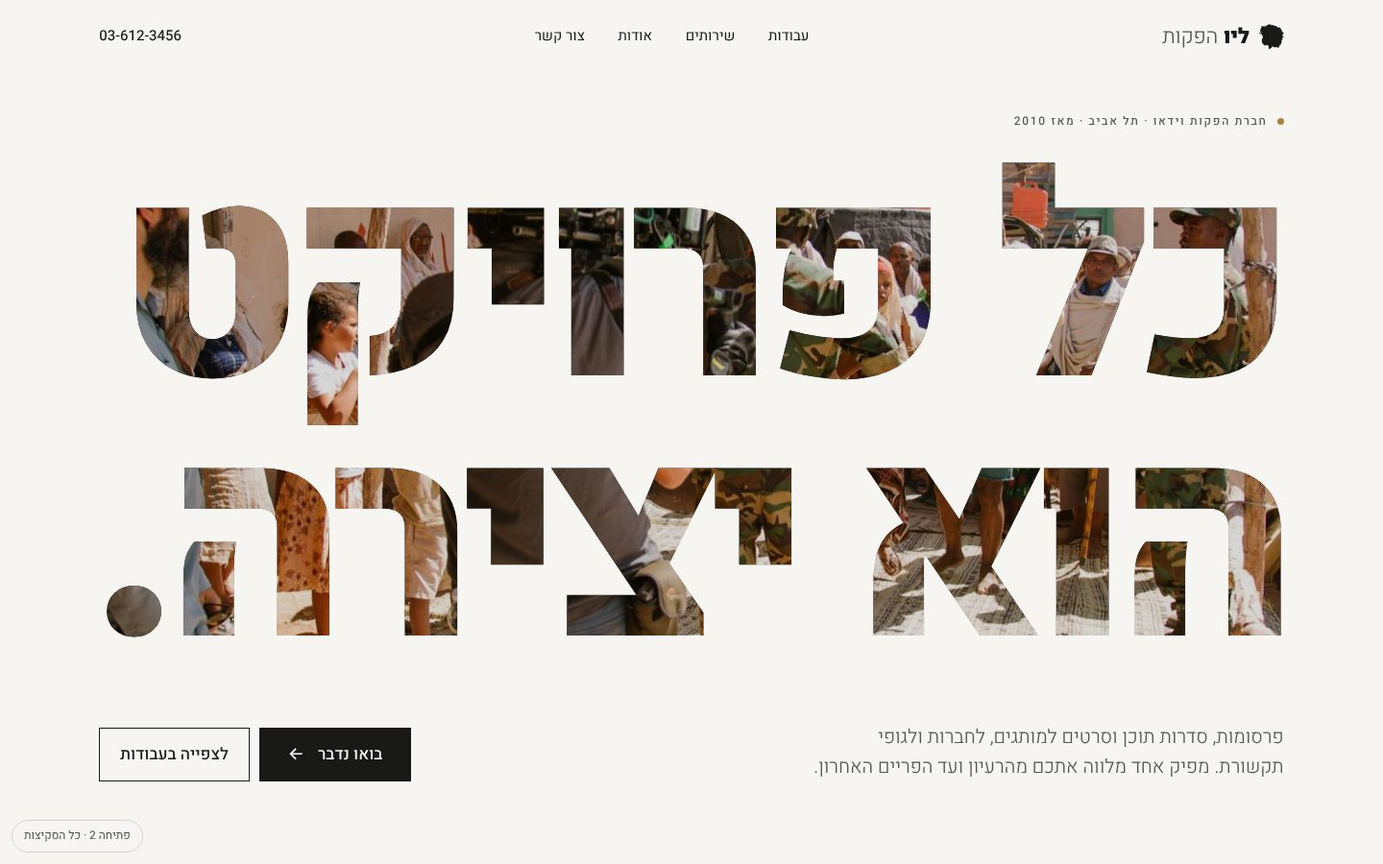
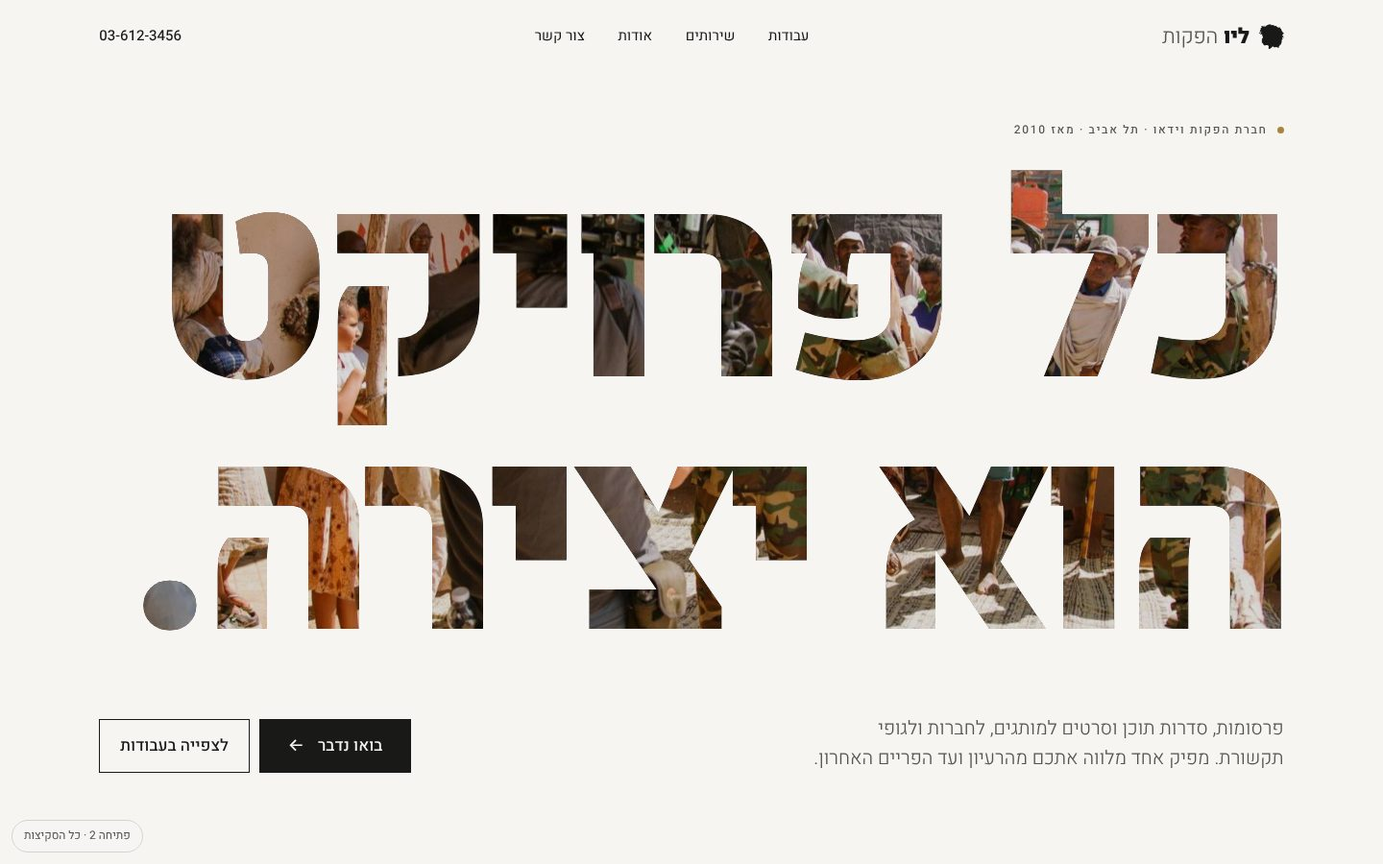
Sketch 8 and final: photos inside the silhouette with a soft edge; fix headline clipping on wide screens
Frames inside the head are sharp in the centre and blurred and darker
towards the edge, so the shape reads before the detail. The desktop
headline no longer outgrows its column above ~1700px wide.

Claude-Session: https://claude.ai/code/session_01WVQVaCY4fGJ7k5v4v453FP

diff --git a/sketches/8.html b/sketches/8.html
@@ -247,10 +247,27 @@ a{color:inherit;text-decoration:none}
 
 /* real photos: no per-photo titles */
 .work .cap{display:none!important}
+
+/* ---------- photos inside the silhouette: sharp centre, soft and darker towards the edge ---------- */
+.fig .hw{position:absolute;inset:0;overflow:hidden}
+.fig .head{position:absolute;inset:0;background:var(--ink);-webkit-clip-path:url(#head-clip);clip-path:url(#head-clip)}
+.head .fr{position:absolute;inset:0;opacity:0;transition:opacity 1.4s ease}
+.head .fr.on{opacity:1}
+.head .fr::before,.head .fr::after{content:"";position:absolute;inset:-7%;background:var(--i) center/cover no-repeat}
+.head .fr::before{filter:blur(10px) saturate(.85) brightness(.82)}
+.head .fr::after{-webkit-mask:radial-gradient(circle at 50% 47%,#000 20%,rgba(0,0,0,.55) 38%,transparent 60%);mask:radial-gradient(circle at 50% 47%,#000 20%,rgba(0,0,0,.55) 38%,transparent 60%)}
+.head .fr.on::before,.head .fr.on::after{animation:kbz 7s linear forwards}
+@keyframes kbz{from{transform:scale(1.02)}to{transform:scale(1.1)}}
+.fig .head::after{content:"";position:absolute;inset:0;background:radial-gradient(circle at 50% 47%,rgba(25,25,24,0) 34%,rgba(25,25,24,.5) 100%);pointer-events:none}
+.js .fig .hw{clip-path:inset(100% 0 0 0)}
+.js.ready .fig .hw{clip-path:inset(0);transition:clip-path 1s .15s var(--ease)}
+@media (prefers-reduced-motion:reduce){.js .fig .hw{clip-path:none}.head .fr.on::before,.head .fr.on::after{animation:none}}
+/* the headline never outgrows its column on very wide screens */
+@media (min-width:900px){.hero h1{font-size:clamp(80px,min(9.7vw,17.5vh),150px)}}
 </style>
 </head>
 <body id="top">
-<svg width="0" height="0" style="position:absolute" aria-hidden="true"><symbol id="mk" viewBox="0 0 100 99.19"><path d="M39.47,99.16Q38.97,99.13 38.79,99.03Q38.61,98.94 38.29,98.52Q37.97,98.10 37.83,97.65Q37.69,97.19 37.70,95.31Q37.71,93.43 37.85,93.05Q37.98,92.68 38.48,92.02Q38.97,91.36 38.99,90.98Q39.01,90.59 37.68,88.42Q36.34,86.25 35.82,85.57Q35.30,84.89 34.93,84.70Q34.55,84.52 33.88,84.41Q33.21,84.29 31.46,84.38Q29.71,84.47 28.71,84.66Q27.71,84.86 25.70,85.03Q23.70,85.21 23.07,85.20Q22.45,85.19 21.61,84.99Q20.78,84.79 19.40,83.86Q18.02,82.94 17.47,82.34Q16.91,81.75 16.41,80.79Q15.90,79.83 15.62,78.91Q15.35,77.99 14.75,76.91Q14.16,75.82 14.00,75.75Q13.85,75.67 13.10,75.70Q12.35,75.72 11.89,75.55Q11.43,75.38 11.19,75.14Q10.95,74.90 10.92,74.61Q10.90,74.32 11.01,73.90Q11.12,73.48 11.57,72.61Q12.02,71.73 11.14,70.51Q10.26,69.28 10.21,68.96Q10.16,68.64 10.39,68.06Q10.62,67.47 11.07,66.93Q11.52,66.39 12.09,65.39Q12.66,64.39 12.55,64.20Q12.43,64.02 11.97,63.63Q11.51,63.25 11.25,62.86Q10.98,62.47 10.81,62.05Q10.64,61.63 10.61,61.13Q10.59,60.63 10.76,60.13Q10.93,59.63 11.25,59.17Q11.57,58.71 12.56,57.79Q13.56,56.87 14.06,56.21Q14.55,55.54 14.92,54.33Q15.28,53.12 15.29,52.58Q15.30,52.03 15.19,51.49Q15.07,50.95 14.67,50.16Q14.28,49.36 13.76,48.61Q13.25,47.86 13.01,47.15Q12.77,46.44 12.69,45.44Q12.61,44.44 12.30,43.56Q11.99,42.69 12.02,42.06Q12.05,41.43 11.97,40.93Q11.89,40.43 11.94,39.68Q11.98,38.93 11.83,38.55Q11.68,38.16 11.56,38.08Q11.43,38.00 11.18,37.99Q10.93,37.97 10.70,38.08Q10.47,38.18 10.43,38.76Q10.40,39.35 10.59,40.02Q10.78,40.68 10.78,40.93Q10.78,41.18 10.60,41.45Q10.43,41.72 10.05,41.99Q9.68,42.27 9.47,42.28Q9.26,42.28 9.14,42.21Q9.01,42.14 8.88,41.75Q8.74,41.35 8.63,41.27Q8.51,41.18 8.01,41.51Q7.51,41.84 7.18,41.84Q6.84,41.84 5.88,41.22Q4.92,40.60 4.80,40.44Q4.67,40.28 4.73,40.02Q4.79,39.77 5.36,38.89Q5.92,38.02 6.34,38.27Q6.76,38.52 6.88,38.51Q7.01,38.49 7.09,38.38Q7.18,38.26 6.87,37.47Q6.57,36.68 6.95,36.34Q7.33,36.01 7.33,35.59Q7.34,35.18 7.59,34.84Q7.84,34.51 7.88,34.22Q7.91,33.92 8.15,33.26Q8.39,32.59 8.41,32.25Q8.43,31.92 8.78,31.13Q9.13,30.33 9.08,30.13Q9.03,29.92 8.64,29.37Q8.24,28.83 8.08,28.29Q7.93,27.75 7.68,27.72Q7.43,27.69 7.16,27.93Q6.90,28.16 6.81,28.46Q6.73,28.75 6.88,29.12Q7.03,29.50 7.00,29.71Q6.97,29.92 6.42,30.42Q5.86,30.92 5.73,31.14Q5.59,31.37 5.59,31.57Q5.59,31.78 5.87,32.10Q6.15,32.42 6.30,32.84Q6.46,33.26 6.13,34.01Q5.81,34.76 5.62,35.01Q5.44,35.26 5.18,35.40Q4.92,35.55 4.49,35.65Q4.07,35.76 3.20,36.81Q2.33,37.85 2.13,37.82Q1.92,37.78 1.42,37.42Q0.92,37.06 0.58,36.93Q0.25,36.81 0.12,36.62Q0.00,36.43 0.09,36.05Q0.18,35.68 0.56,35.13Q0.93,34.59 1.62,34.47Q2.31,34.34 2.27,33.84Q2.22,33.34 2.33,32.92Q2.45,32.50 2.60,32.28Q2.75,32.05 3.24,31.61Q3.73,31.17 3.73,31.04Q3.73,30.92 3.41,30.54Q3.09,30.17 3.00,29.88Q2.90,29.58 3.26,28.92Q3.61,28.25 3.93,27.88Q4.25,27.50 4.35,27.29Q4.44,27.08 4.42,26.91Q4.40,26.75 4.15,26.33Q3.91,25.91 3.95,25.80Q4.00,25.69 4.21,25.63Q4.42,25.56 4.51,25.44Q4.60,25.33 4.46,24.74Q4.33,24.16 4.42,23.28Q4.50,22.40 4.63,22.32Q4.75,22.23 5.55,22.37Q6.34,22.51 6.51,22.42Q6.69,22.32 6.80,22.11Q6.91,21.91 6.87,21.47Q6.84,21.04 6.42,20.65Q6.01,20.26 5.88,20.00Q5.76,19.74 5.85,19.15Q5.95,18.57 5.86,18.27Q5.76,17.98 5.79,17.86Q5.82,17.73 6.04,17.36Q6.25,16.98 6.54,16.81Q6.82,16.65 7.01,16.15Q7.19,15.65 7.31,15.51Q7.43,15.37 7.93,15.13Q8.43,14.89 8.89,14.91Q9.35,14.93 9.60,14.87Q9.85,14.80 10.18,14.52Q10.51,14.23 10.66,13.85Q10.80,13.48 10.66,12.70Q10.51,11.93 9.68,11.62Q8.84,11.31 8.63,11.06Q8.41,10.80 8.28,10.39Q8.16,9.97 8.15,9.64Q8.14,9.30 8.36,8.89Q8.58,8.47 9.01,8.29Q9.43,8.11 10.43,8.30Q11.43,8.49 12.06,8.50Q12.68,8.51 13.06,8.22Q13.43,7.92 13.77,7.90Q14.10,7.87 15.65,8.67Q17.19,9.46 17.48,9.51Q17.77,9.55 18.15,9.47Q18.52,9.39 18.60,9.30Q18.68,9.22 18.47,8.55Q18.27,7.88 18.31,7.70Q18.36,7.51 18.66,8.03Q18.95,8.55 19.03,8.84Q19.10,9.14 19.06,9.30Q19.03,9.47 19.11,9.55Q19.19,9.63 19.40,9.47Q19.61,9.31 19.74,9.45Q19.86,9.60 20.11,9.49Q20.36,9.38 20.61,9.56Q20.86,9.74 21.07,9.64Q21.28,9.54 21.61,9.51Q21.95,9.48 22.20,9.32Q22.45,9.16 22.66,9.31Q22.87,9.45 23.20,9.44Q23.53,9.42 23.69,9.65Q23.85,9.89 23.98,9.92Q24.12,9.95 24.95,9.62Q25.79,9.28 26.37,9.28Q26.96,9.27 27.09,9.16Q27.23,9.05 27.04,8.76Q26.85,8.47 26.95,8.28Q27.04,8.08 27.21,8.00Q27.37,7.92 27.66,7.99Q27.95,8.05 27.92,7.88Q27.89,7.72 28.05,7.54Q28.21,7.36 28.54,7.37Q28.87,7.38 29.30,7.13Q29.72,6.88 29.79,6.63Q29.86,6.38 29.79,6.21Q29.71,6.03 29.58,5.97Q29.46,5.91 28.79,5.93Q28.12,5.95 26.79,6.56Q25.45,7.17 24.70,7.20Q23.95,7.23 23.16,7.07Q22.36,6.91 21.74,6.42Q21.11,5.93 20.70,5.94Q20.28,5.94 19.65,6.13Q19.03,6.31 18.97,6.26Q18.92,6.21 19.27,6.01Q19.62,5.80 20.20,5.70Q20.78,5.61 21.22,5.79Q21.67,5.96 22.31,6.40Q22.95,6.84 23.99,6.89Q25.04,6.93 26.54,6.27Q28.04,5.62 28.62,5.61Q29.21,5.61 29.96,5.71Q30.71,5.82 31.01,5.60Q31.31,5.38 32.34,4.16Q33.38,2.93 33.80,3.12Q34.22,3.32 34.59,3.34Q34.97,3.37 35.22,3.08Q35.47,2.79 35.64,2.45Q35.80,2.10 36.09,1.89Q36.39,1.68 37.72,2.04Q39.06,2.40 39.34,2.39Q39.62,2.38 39.73,2.29Q39.84,2.21 40.03,1.73Q40.23,1.25 40.35,1.21Q40.48,1.17 40.81,1.25Q41.14,1.32 41.60,0.75Q42.06,0.18 42.44,0.09Q42.81,0.00 43.51,0.31Q44.21,0.62 44.51,1.11Q44.82,1.60 45.44,1.65Q46.07,1.70 46.50,1.91Q46.93,2.12 47.14,2.38Q47.35,2.63 47.62,3.21Q47.89,3.79 48.52,4.13Q49.16,4.47 49.91,4.52Q50.66,4.58 51.08,4.50Q51.49,4.42 51.91,3.63Q52.33,2.83 52.49,2.75Q52.66,2.67 52.91,2.81Q53.16,2.96 53.37,3.20Q53.58,3.44 54.32,3.58Q55.06,3.71 55.32,4.25Q55.58,4.79 55.96,4.62Q56.33,4.45 56.71,4.55Q57.08,4.66 57.50,4.59Q57.92,4.51 58.96,4.84Q60.01,5.17 60.26,5.82Q60.51,6.47 60.97,7.04Q61.42,7.61 61.67,7.75Q61.92,7.89 62.18,7.94Q62.43,7.98 63.22,7.82Q64.01,7.66 64.72,7.28Q65.43,6.91 65.72,6.84Q66.01,6.77 66.35,6.78Q66.68,6.79 67.52,7.08Q68.35,7.38 68.73,7.63Q69.11,7.88 69.94,9.21Q70.77,10.54 71.52,10.72Q72.27,10.89 72.52,11.06Q72.77,11.24 73.45,12.02Q74.13,12.81 74.29,13.25Q74.44,13.69 74.57,13.70Q74.69,13.72 75.07,13.50Q75.45,13.27 75.86,13.19Q76.28,13.11 76.91,12.76Q77.53,12.41 77.95,12.46Q78.37,12.50 78.47,12.78Q78.57,13.06 78.46,13.89Q78.35,14.73 78.48,14.91Q78.62,15.09 78.87,15.04Q79.12,14.99 79.79,14.46Q80.45,13.93 81.08,13.82Q81.70,13.71 82.08,13.47Q82.46,13.23 82.83,13.22Q83.21,13.20 83.58,13.34Q83.96,13.47 84.23,13.72Q84.50,13.98 84.58,14.27Q84.66,14.56 84.52,14.86Q84.38,15.15 84.00,15.48Q83.62,15.81 83.62,16.07Q83.62,16.34 84.79,17.12Q85.96,17.90 86.30,18.23Q86.63,18.57 86.80,18.62Q86.96,18.66 87.34,18.53Q87.71,18.41 88.07,18.74Q88.42,19.07 88.39,19.74Q88.36,20.40 88.89,21.11Q89.42,21.82 89.50,22.28Q89.59,22.74 89.87,23.24Q90.15,23.74 90.16,24.03Q90.16,24.33 90.00,24.87Q89.85,25.41 89.91,25.74Q89.97,26.08 90.09,26.26Q90.22,26.44 90.76,26.71Q91.30,26.98 91.43,27.15Q91.56,27.33 91.54,27.50Q91.52,27.66 91.28,28.00Q91.05,28.33 91.11,28.54Q91.17,28.75 91.44,28.94Q91.72,29.14 92.39,29.28Q93.06,29.42 93.31,29.57Q93.56,29.72 93.97,30.28Q94.39,30.84 94.46,31.80Q94.53,32.75 94.61,32.96Q94.70,33.17 95.42,33.76Q96.14,34.34 96.70,34.51Q97.25,34.67 97.29,34.92Q97.33,35.18 97.01,35.68Q96.69,36.18 96.71,36.32Q96.73,36.46 96.94,36.48Q97.15,36.51 97.65,36.26Q98.15,36.01 98.40,35.99Q98.65,35.98 99.23,36.26Q99.82,36.54 99.91,36.69Q100.00,36.84 99.90,37.05Q99.81,37.26 99.23,37.72Q98.65,38.18 97.56,38.69Q96.48,39.19 96.06,39.94Q95.64,40.68 94.85,41.00Q94.06,41.32 93.71,41.88Q93.37,42.44 93.24,42.98Q93.11,43.52 93.25,43.94Q93.38,44.36 93.72,44.76Q94.06,45.16 94.32,45.63Q94.58,46.11 94.55,46.36Q94.52,46.61 94.16,47.07Q93.81,47.53 93.86,47.82Q93.92,48.11 94.32,48.16Q94.72,48.20 95.27,47.94Q95.81,47.67 96.60,47.82Q97.40,47.98 97.59,48.13Q97.78,48.28 97.79,48.57Q97.80,48.86 97.50,49.49Q97.20,50.11 96.73,50.62Q96.26,51.12 96.65,51.70Q97.04,52.28 97.12,53.08Q97.19,53.87 97.33,53.90Q97.48,53.93 97.85,53.65Q98.23,53.36 98.44,53.29Q98.65,53.22 98.74,53.34Q98.84,53.45 98.77,53.83Q98.70,54.20 98.51,54.57Q98.31,54.94 98.06,55.14Q97.81,55.34 97.44,55.37Q97.06,55.39 96.77,55.26Q96.48,55.13 96.34,55.00Q96.21,54.87 96.16,54.70Q96.11,54.54 96.22,53.58Q96.33,52.62 96.24,52.45Q96.14,52.28 95.93,52.23Q95.73,52.19 95.48,52.37Q95.23,52.56 94.93,53.02Q94.64,53.48 94.27,53.88Q93.89,54.29 93.31,54.55Q92.72,54.81 92.52,55.09Q92.31,55.37 92.17,55.96Q92.03,56.54 92.05,56.79Q92.08,57.04 92.58,57.33Q93.08,57.63 93.32,57.98Q93.56,58.32 94.03,58.77Q94.50,59.21 94.75,59.63Q94.99,60.05 95.00,60.25Q95.00,60.46 94.74,60.66Q94.47,60.86 93.76,61.05Q93.06,61.24 92.55,61.23Q92.05,61.23 91.95,61.30Q91.84,61.38 91.78,62.22Q91.72,63.05 91.57,63.43Q91.42,63.80 91.06,64.34Q90.70,64.89 90.55,65.39Q90.39,65.89 90.44,66.93Q90.49,67.97 90.26,68.73Q90.02,69.48 90.19,69.98Q90.35,70.48 90.76,71.10Q91.18,71.73 90.50,72.90Q89.82,74.07 89.32,74.44Q88.82,74.82 88.97,76.32Q89.12,77.82 88.88,78.13Q88.63,78.44 88.15,78.76Q87.66,79.08 87.60,79.66Q87.55,80.24 87.19,80.70Q86.83,81.16 86.48,82.03Q86.13,82.91 85.29,83.27Q84.46,83.63 83.71,83.56Q82.96,83.49 82.85,83.54Q82.75,83.58 82.73,83.75Q82.71,83.92 82.88,84.33Q83.06,84.75 83.00,85.00Q82.95,85.25 81.70,86.70Q80.45,88.15 79.95,88.62Q79.45,89.09 79.36,89.42Q79.27,89.76 79.42,90.55Q79.57,91.34 79.43,91.93Q79.30,92.51 79.35,92.97Q79.40,93.43 79.18,94.24Q78.95,95.04 78.74,95.12Q78.53,95.21 77.95,95.24Q77.36,95.27 76.95,95.11Q76.53,94.95 76.15,94.56Q75.78,94.17 75.07,94.23Q74.36,94.30 73.65,94.03Q72.94,93.76 72.63,93.51Q72.32,93.26 72.10,92.97Q71.89,92.68 71.86,92.47Q71.82,92.26 71.92,91.89Q72.01,91.51 71.85,91.39Q71.69,91.26 71.48,91.33Q71.27,91.41 70.94,91.70Q70.60,92.00 69.73,92.43Q68.85,92.86 68.43,92.78Q68.02,92.69 67.72,92.23Q67.43,91.76 67.22,91.67Q67.02,91.58 66.18,91.88Q65.35,92.18 64.76,92.22Q64.18,92.26 63.84,92.59Q63.51,92.91 62.93,93.21Q62.34,93.51 61.67,93.39Q61.01,93.27 60.30,93.03Q59.59,92.79 59.38,92.57Q59.17,92.35 58.85,91.80Q58.54,91.26 57.73,90.85Q56.92,90.44 56.37,89.69Q55.83,88.94 55.71,88.87Q55.58,88.81 53.98,89.87Q52.38,90.93 49.95,93.43Q47.53,95.93 46.63,96.60Q45.73,97.28 45.15,97.64Q44.57,98.01 43.98,98.24Q43.40,98.48 42.35,98.76Q41.31,99.05 40.64,99.12Q39.97,99.19 39.47,99.16Z"/></symbol></svg>
+<svg width="0" height="0" style="position:absolute" aria-hidden="true"><defs><clipPath id="head-clip" clipPathUnits="objectBoundingBox" transform="scale(.01 .010082)"><path d="M39.47,99.16Q38.97,99.13 38.79,99.03Q38.61,98.94 38.29,98.52Q37.97,98.10 37.83,97.65Q37.69,97.19 37.70,95.31Q37.71,93.43 37.85,93.05Q37.98,92.68 38.48,92.02Q38.97,91.36 38.99,90.98Q39.01,90.59 37.68,88.42Q36.34,86.25 35.82,85.57Q35.30,84.89 34.93,84.70Q34.55,84.52 33.88,84.41Q33.21,84.29 31.46,84.38Q29.71,84.47 28.71,84.66Q27.71,84.86 25.70,85.03Q23.70,85.21 23.07,85.20Q22.45,85.19 21.61,84.99Q20.78,84.79 19.40,83.86Q18.02,82.94 17.47,82.34Q16.91,81.75 16.41,80.79Q15.90,79.83 15.62,78.91Q15.35,77.99 14.75,76.91Q14.16,75.82 14.00,75.75Q13.85,75.67 13.10,75.70Q12.35,75.72 11.89,75.55Q11.43,75.38 11.19,75.14Q10.95,74.90 10.92,74.61Q10.90,74.32 11.01,73.90Q11.12,73.48 11.57,72.61Q12.02,71.73 11.14,70.51Q10.26,69.28 10.21,68.96Q10.16,68.64 10.39,68.06Q10.62,67.47 11.07,66.93Q11.52,66.39 12.09,65.39Q12.66,64.39 12.55,64.20Q12.43,64.02 11.97,63.63Q11.51,63.25 11.25,62.86Q10.98,62.47 10.81,62.05Q10.64,61.63 10.61,61.13Q10.59,60.63 10.76,60.13Q10.93,59.63 11.25,59.17Q11.57,58.71 12.56,57.79Q13.56,56.87 14.06,56.21Q14.55,55.54 14.92,54.33Q15.28,53.12 15.29,52.58Q15.30,52.03 15.19,51.49Q15.07,50.95 14.67,50.16Q14.28,49.36 13.76,48.61Q13.25,47.86 13.01,47.15Q12.77,46.44 12.69,45.44Q12.61,44.44 12.30,43.56Q11.99,42.69 12.02,42.06Q12.05,41.43 11.97,40.93Q11.89,40.43 11.94,39.68Q11.98,38.93 11.83,38.55Q11.68,38.16 11.56,38.08Q11.43,38.00 11.18,37.99Q10.93,37.97 10.70,38.08Q10.47,38.18 10.43,38.76Q10.40,39.35 10.59,40.02Q10.78,40.68 10.78,40.93Q10.78,41.18 10.60,41.45Q10.43,41.72 10.05,41.99Q9.68,42.27 9.47,42.28Q9.26,42.28 9.14,42.21Q9.01,42.14 8.88,41.75Q8.74,41.35 8.63,41.27Q8.51,41.18 8.01,41.51Q7.51,41.84 7.18,41.84Q6.84,41.84 5.88,41.22Q4.92,40.60 4.80,40.44Q4.67,40.28 4.73,40.02Q4.79,39.77 5.36,38.89Q5.92,38.02 6.34,38.27Q6.76,38.52 6.88,38.51Q7.01,38.49 7.09,38.38Q7.18,38.26 6.87,37.47Q6.57,36.68 6.95,36.34Q7.33,36.01 7.33,35.59Q7.34,35.18 7.59,34.84Q7.84,34.51 7.88,34.22Q7.91,33.92 8.15,33.26Q8.39,32.59 8.41,32.25Q8.43,31.92 8.78,31.13Q9.13,30.33 9.08,30.13Q9.03,29.92 8.64,29.37Q8.24,28.83 8.08,28.29Q7.93,27.75 7.68,27.72Q7.43,27.69 7.16,27.93Q6.90,28.16 6.81,28.46Q6.73,28.75 6.88,29.12Q7.03,29.50 7.00,29.71Q6.97,29.92 6.42,30.42Q5.86,30.92 5.73,31.14Q5.59,31.37 5.59,31.57Q5.59,31.78 5.87,32.10Q6.15,32.42 6.30,32.84Q6.46,33.26 6.13,34.01Q5.81,34.76 5.62,35.01Q5.44,35.26 5.18,35.40Q4.92,35.55 4.49,35.65Q4.07,35.76 3.20,36.81Q2.33,37.85 2.13,37.82Q1.92,37.78 1.42,37.42Q0.92,37.06 0.58,36.93Q0.25,36.81 0.12,36.62Q0.00,36.43 0.09,36.05Q0.18,35.68 0.56,35.13Q0.93,34.59 1.62,34.47Q2.31,34.34 2.27,33.84Q2.22,33.34 2.33,32.92Q2.45,32.50 2.60,32.28Q2.75,32.05 3.24,31.61Q3.73,31.17 3.73,31.04Q3.73,30.92 3.41,30.54Q3.09,30.17 3.00,29.88Q2.90,29.58 3.26,28.92Q3.61,28.25 3.93,27.88Q4.25,27.50 4.35,27.29Q4.44,27.08 4.42,26.91Q4.40,26.75 4.15,26.33Q3.91,25.91 3.95,25.80Q4.00,25.69 4.21,25.63Q4.42,25.56 4.51,25.44Q4.60,25.33 4.46,24.74Q4.33,24.16 4.42,23.28Q4.50,22.40 4.63,22.32Q4.75,22.23 5.55,22.37Q6.34,22.51 6.51,22.42Q6.69,22.32 6.80,22.11Q6.91,21.91 6.87,21.47Q6.84,21.04 6.42,20.65Q6.01,20.26 5.88,20.00Q5.76,19.74 5.85,19.15Q5.95,18.57 5.86,18.27Q5.76,17.98 5.79,17.86Q5.82,17.73 6.04,17.36Q6.25,16.98 6.54,16.81Q6.82,16.65 7.01,16.15Q7.19,15.65 7.31,15.51Q7.43,15.37 7.93,15.13Q8.43,14.89 8.89,14.91Q9.35,14.93 9.60,14.87Q9.85,14.80 10.18,14.52Q10.51,14.23 10.66,13.85Q10.80,13.48 10.66,12.70Q10.51,11.93 9.68,11.62Q8.84,11.31 8.63,11.06Q8.41,10.80 8.28,10.39Q8.16,9.97 8.15,9.64Q8.14,9.30 8.36,8.89Q8.58,8.47 9.01,8.29Q9.43,8.11 10.43,8.30Q11.43,8.49 12.06,8.50Q12.68,8.51 13.06,8.22Q13.43,7.92 13.77,7.90Q14.10,7.87 15.65,8.67Q17.19,9.46 17.48,9.51Q17.77,9.55 18.15,9.47Q18.52,9.39 18.60,9.30Q18.68,9.22 18.47,8.55Q18.27,7.88 18.31,7.70Q18.36,7.51 18.66,8.03Q18.95,8.55 19.03,8.84Q19.10,9.14 19.06,9.30Q19.03,9.47 19.11,9.55Q19.19,9.63 19.40,9.47Q19.61,9.31 19.74,9.45Q19.86,9.60 20.11,9.49Q20.36,9.38 20.61,9.56Q20.86,9.74 21.07,9.64Q21.28,9.54 21.61,9.51Q21.95,9.48 22.20,9.32Q22.45,9.16 22.66,9.31Q22.87,9.45 23.20,9.44Q23.53,9.42 23.69,9.65Q23.85,9.89 23.98,9.92Q24.12,9.95 24.95,9.62Q25.79,9.28 26.37,9.28Q26.96,9.27 27.09,9.16Q27.23,9.05 27.04,8.76Q26.85,8.47 26.95,8.28Q27.04,8.08 27.21,8.00Q27.37,7.92 27.66,7.99Q27.95,8.05 27.92,7.88Q27.89,7.72 28.05,7.54Q28.21,7.36 28.54,7.37Q28.87,7.38 29.30,7.13Q29.72,6.88 29.79,6.63Q29.86,6.38 29.79,6.21Q29.71,6.03 29.58,5.97Q29.46,5.91 28.79,5.93Q28.12,5.95 26.79,6.56Q25.45,7.17 24.70,7.20Q23.95,7.23 23.16,7.07Q22.36,6.91 21.74,6.42Q21.11,5.93 20.70,5.94Q20.28,5.94 19.65,6.13Q19.03,6.31 18.97,6.26Q18.92,6.21 19.27,6.01Q19.62,5.80 20.20,5.70Q20.78,5.61 21.22,5.79Q21.67,5.96 22.31,6.40Q22.95,6.84 23.99,6.89Q25.04,6.93 26.54,6.27Q28.04,5.62 28.62,5.61Q29.21,5.61 29.96,5.71Q30.71,5.82 31.01,5.60Q31.31,5.38 32.34,4.16Q33.38,2.93 33.80,3.12Q34.22,3.32 34.59,3.34Q34.97,3.37 35.22,3.08Q35.47,2.79 35.64,2.45Q35.80,2.10 36.09,1.89Q36.39,1.68 37.72,2.04Q39.06,2.40 39.34,2.39Q39.62,2.38 39.73,2.29Q39.84,2.21 40.03,1.73Q40.23,1.25 40.35,1.21Q40.48,1.17 40.81,1.25Q41.14,1.32 41.60,0.75Q42.06,0.18 42.44,0.09Q42.81,0.00 43.51,0.31Q44.21,0.62 44.51,1.11Q44.82,1.60 45.44,1.65Q46.07,1.70 46.50,1.91Q46.93,2.12 47.14,2.38Q47.35,2.63 47.62,3.21Q47.89,3.79 48.52,4.13Q49.16,4.47 49.91,4.52Q50.66,4.58 51.08,4.50Q51.49,4.42 51.91,3.63Q52.33,2.83 52.49,2.75Q52.66,2.67 52.91,2.81Q53.16,2.96 53.37,3.20Q53.58,3.44 54.32,3.58Q55.06,3.71 55.32,4.25Q55.58,4.79 55.96,4.62Q56.33,4.45 56.71,4.55Q57.08,4.66 57.50,4.59Q57.92,4.51 58.96,4.84Q60.01,5.17 60.26,5.82Q60.51,6.47 60.97,7.04Q61.42,7.61 61.67,7.75Q61.92,7.89 62.18,7.94Q62.43,7.98 63.22,7.82Q64.01,7.66 64.72,7.28Q65.43,6.91 65.72,6.84Q66.01,6.77 66.35,6.78Q66.68,6.79 67.52,7.08Q68.35,7.38 68.73,7.63Q69.11,7.88 69.94,9.21Q70.77,10.54 71.52,10.72Q72.27,10.89 72.52,11.06Q72.77,11.24 73.45,12.02Q74.13,12.81 74.29,13.25Q74.44,13.69 74.57,13.70Q74.69,13.72 75.07,13.50Q75.45,13.27 75.86,13.19Q76.28,13.11 76.91,12.76Q77.53,12.41 77.95,12.46Q78.37,12.50 78.47,12.78Q78.57,13.06 78.46,13.89Q78.35,14.73 78.48,14.91Q78.62,15.09 78.87,15.04Q79.12,14.99 79.79,14.46Q80.45,13.93 81.08,13.82Q81.70,13.71 82.08,13.47Q82.46,13.23 82.83,13.22Q83.21,13.20 83.58,13.34Q83.96,13.47 84.23,13.72Q84.50,13.98 84.58,14.27Q84.66,14.56 84.52,14.86Q84.38,15.15 84.00,15.48Q83.62,15.81 83.62,16.07Q83.62,16.34 84.79,17.12Q85.96,17.90 86.30,18.23Q86.63,18.57 86.80,18.62Q86.96,18.66 87.34,18.53Q87.71,18.41 88.07,18.74Q88.42,19.07 88.39,19.74Q88.36,20.40 88.89,21.11Q89.42,21.82 89.50,22.28Q89.59,22.74 89.87,23.24Q90.15,23.74 90.16,24.03Q90.16,24.33 90.00,24.87Q89.85,25.41 89.91,25.74Q89.97,26.08 90.09,26.26Q90.22,26.44 90.76,26.71Q91.30,26.98 91.43,27.15Q91.56,27.33 91.54,27.50Q91.52,27.66 91.28,28.00Q91.05,28.33 91.11,28.54Q91.17,28.75 91.44,28.94Q91.72,29.14 92.39,29.28Q93.06,29.42 93.31,29.57Q93.56,29.72 93.97,30.28Q94.39,30.84 94.46,31.80Q94.53,32.75 94.61,32.96Q94.70,33.17 95.42,33.76Q96.14,34.34 96.70,34.51Q97.25,34.67 97.29,34.92Q97.33,35.18 97.01,35.68Q96.69,36.18 96.71,36.32Q96.73,36.46 96.94,36.48Q97.15,36.51 97.65,36.26Q98.15,36.01 98.40,35.99Q98.65,35.98 99.23,36.26Q99.82,36.54 99.91,36.69Q100.00,36.84 99.90,37.05Q99.81,37.26 99.23,37.72Q98.65,38.18 97.56,38.69Q96.48,39.19 96.06,39.94Q95.64,40.68 94.85,41.00Q94.06,41.32 93.71,41.88Q93.37,42.44 93.24,42.98Q93.11,43.52 93.25,43.94Q93.38,44.36 93.72,44.76Q94.06,45.16 94.32,45.63Q94.58,46.11 94.55,46.36Q94.52,46.61 94.16,47.07Q93.81,47.53 93.86,47.82Q93.92,48.11 94.32,48.16Q94.72,48.20 95.27,47.94Q95.81,47.67 96.60,47.82Q97.40,47.98 97.59,48.13Q97.78,48.28 97.79,48.57Q97.80,48.86 97.50,49.49Q97.20,50.11 96.73,50.62Q96.26,51.12 96.65,51.70Q97.04,52.28 97.12,53.08Q97.19,53.87 97.33,53.90Q97.48,53.93 97.85,53.65Q98.23,53.36 98.44,53.29Q98.65,53.22 98.74,53.34Q98.84,53.45 98.77,53.83Q98.70,54.20 98.51,54.57Q98.31,54.94 98.06,55.14Q97.81,55.34 97.44,55.37Q97.06,55.39 96.77,55.26Q96.48,55.13 96.34,55.00Q96.21,54.87 96.16,54.70Q96.11,54.54 96.22,53.58Q96.33,52.62 96.24,52.45Q96.14,52.28 95.93,52.23Q95.73,52.19 95.48,52.37Q95.23,52.56 94.93,53.02Q94.64,53.48 94.27,53.88Q93.89,54.29 93.31,54.55Q92.72,54.81 92.52,55.09Q92.31,55.37 92.17,55.96Q92.03,56.54 92.05,56.79Q92.08,57.04 92.58,57.33Q93.08,57.63 93.32,57.98Q93.56,58.32 94.03,58.77Q94.50,59.21 94.75,59.63Q94.99,60.05 95.00,60.25Q95.00,60.46 94.74,60.66Q94.47,60.86 93.76,61.05Q93.06,61.24 92.55,61.23Q92.05,61.23 91.95,61.30Q91.84,61.38 91.78,62.22Q91.72,63.05 91.57,63.43Q91.42,63.80 91.06,64.34Q90.70,64.89 90.55,65.39Q90.39,65.89 90.44,66.93Q90.49,67.97 90.26,68.73Q90.02,69.48 90.19,69.98Q90.35,70.48 90.76,71.10Q91.18,71.73 90.50,72.90Q89.82,74.07 89.32,74.44Q88.82,74.82 88.97,76.32Q89.12,77.82 88.88,78.13Q88.63,78.44 88.15,78.76Q87.66,79.08 87.60,79.66Q87.55,80.24 87.19,80.70Q86.83,81.16 86.48,82.03Q86.13,82.91 85.29,83.27Q84.46,83.63 83.71,83.56Q82.96,83.49 82.85,83.54Q82.75,83.58 82.73,83.75Q82.71,83.92 82.88,84.33Q83.06,84.75 83.00,85.00Q82.95,85.25 81.70,86.70Q80.45,88.15 79.95,88.62Q79.45,89.09 79.36,89.42Q79.27,89.76 79.42,90.55Q79.57,91.34 79.43,91.93Q79.30,92.51 79.35,92.97Q79.40,93.43 79.18,94.24Q78.95,95.04 78.74,95.12Q78.53,95.21 77.95,95.24Q77.36,95.27 76.95,95.11Q76.53,94.95 76.15,94.56Q75.78,94.17 75.07,94.23Q74.36,94.30 73.65,94.03Q72.94,93.76 72.63,93.51Q72.32,93.26 72.10,92.97Q71.89,92.68 71.86,92.47Q71.82,92.26 71.92,91.89Q72.01,91.51 71.85,91.39Q71.69,91.26 71.48,91.33Q71.27,91.41 70.94,91.70Q70.60,92.00 69.73,92.43Q68.85,92.86 68.43,92.78Q68.02,92.69 67.72,92.23Q67.43,91.76 67.22,91.67Q67.02,91.58 66.18,91.88Q65.35,92.18 64.76,92.22Q64.18,92.26 63.84,92.59Q63.51,92.91 62.93,93.21Q62.34,93.51 61.67,93.39Q61.01,93.27 60.30,93.03Q59.59,92.79 59.38,92.57Q59.17,92.35 58.85,91.80Q58.54,91.26 57.73,90.85Q56.92,90.44 56.37,89.69Q55.83,88.94 55.71,88.87Q55.58,88.81 53.98,89.87Q52.38,90.93 49.95,93.43Q47.53,95.93 46.63,96.60Q45.73,97.28 45.15,97.64Q44.57,98.01 43.98,98.24Q43.40,98.48 42.35,98.76Q41.31,99.05 40.64,99.12Q39.97,99.19 39.47,99.16Z"/></clipPath></defs><symbol id="mk" viewBox="0 0 100 99.19"><path d="M39.47,99.16Q38.97,99.13 38.79,99.03Q38.61,98.94 38.29,98.52Q37.97,98.10 37.83,97.65Q37.69,97.19 37.70,95.31Q37.71,93.43 37.85,93.05Q37.98,92.68 38.48,92.02Q38.97,91.36 38.99,90.98Q39.01,90.59 37.68,88.42Q36.34,86.25 35.82,85.57Q35.30,84.89 34.93,84.70Q34.55,84.52 33.88,84.41Q33.21,84.29 31.46,84.38Q29.71,84.47 28.71,84.66Q27.71,84.86 25.70,85.03Q23.70,85.21 23.07,85.20Q22.45,85.19 21.61,84.99Q20.78,84.79 19.40,83.86Q18.02,82.94 17.47,82.34Q16.91,81.75 16.41,80.79Q15.90,79.83 15.62,78.91Q15.35,77.99 14.75,76.91Q14.16,75.82 14.00,75.75Q13.85,75.67 13.10,75.70Q12.35,75.72 11.89,75.55Q11.43,75.38 11.19,75.14Q10.95,74.90 10.92,74.61Q10.90,74.32 11.01,73.90Q11.12,73.48 11.57,72.61Q12.02,71.73 11.14,70.51Q10.26,69.28 10.21,68.96Q10.16,68.64 10.39,68.06Q10.62,67.47 11.07,66.93Q11.52,66.39 12.09,65.39Q12.66,64.39 12.55,64.20Q12.43,64.02 11.97,63.63Q11.51,63.25 11.25,62.86Q10.98,62.47 10.81,62.05Q10.64,61.63 10.61,61.13Q10.59,60.63 10.76,60.13Q10.93,59.63 11.25,59.17Q11.57,58.71 12.56,57.79Q13.56,56.87 14.06,56.21Q14.55,55.54 14.92,54.33Q15.28,53.12 15.29,52.58Q15.30,52.03 15.19,51.49Q15.07,50.95 14.67,50.16Q14.28,49.36 13.76,48.61Q13.25,47.86 13.01,47.15Q12.77,46.44 12.69,45.44Q12.61,44.44 12.30,43.56Q11.99,42.69 12.02,42.06Q12.05,41.43 11.97,40.93Q11.89,40.43 11.94,39.68Q11.98,38.93 11.83,38.55Q11.68,38.16 11.56,38.08Q11.43,38.00 11.18,37.99Q10.93,37.97 10.70,38.08Q10.47,38.18 10.43,38.76Q10.40,39.35 10.59,40.02Q10.78,40.68 10.78,40.93Q10.78,41.18 10.60,41.45Q10.43,41.72 10.05,41.99Q9.68,42.27 9.47,42.28Q9.26,42.28 9.14,42.21Q9.01,42.14 8.88,41.75Q8.74,41.35 8.63,41.27Q8.51,41.18 8.01,41.51Q7.51,41.84 7.18,41.84Q6.84,41.84 5.88,41.22Q4.92,40.60 4.80,40.44Q4.67,40.28 4.73,40.02Q4.79,39.77 5.36,38.89Q5.92,38.02 6.34,38.27Q6.76,38.52 6.88,38.51Q7.01,38.49 7.09,38.38Q7.18,38.26 6.87,37.47Q6.57,36.68 6.95,36.34Q7.33,36.01 7.33,35.59Q7.34,35.18 7.59,34.84Q7.84,34.51 7.88,34.22Q7.91,33.92 8.15,33.26Q8.39,32.59 8.41,32.25Q8.43,31.92 8.78,31.13Q9.13,30.33 9.08,30.13Q9.03,29.92 8.64,29.37Q8.24,28.83 8.08,28.29Q7.93,27.75 7.68,27.72Q7.43,27.69 7.16,27.93Q6.90,28.16 6.81,28.46Q6.73,28.75 6.88,29.12Q7.03,29.50 7.00,29.71Q6.97,29.92 6.42,30.42Q5.86,30.92 5.73,31.14Q5.59,31.37 5.59,31.57Q5.59,31.78 5.87,32.10Q6.15,32.42 6.30,32.84Q6.46,33.26 6.13,34.01Q5.81,34.76 5.62,35.01Q5.44,35.26 5.18,35.40Q4.92,35.55 4.49,35.65Q4.07,35.76 3.20,36.81Q2.33,37.85 2.13,37.82Q1.92,37.78 1.42,37.42Q0.92,37.06 0.58,36.93Q0.25,36.81 0.12,36.62Q0.00,36.43 0.09,36.05Q0.18,35.68 0.56,35.13Q0.93,34.59 1.62,34.47Q2.31,34.34 2.27,33.84Q2.22,33.34 2.33,32.92Q2.45,32.50 2.60,32.28Q2.75,32.05 3.24,31.61Q3.73,31.17 3.73,31.04Q3.73,30.92 3.41,30.54Q3.09,30.17 3.00,29.88Q2.90,29.58 3.26,28.92Q3.61,28.25 3.93,27.88Q4.25,27.50 4.35,27.29Q4.44,27.08 4.42,26.91Q4.40,26.75 4.15,26.33Q3.91,25.91 3.95,25.80Q4.00,25.69 4.21,25.63Q4.42,25.56 4.51,25.44Q4.60,25.33 4.46,24.74Q4.33,24.16 4.42,23.28Q4.50,22.40 4.63,22.32Q4.75,22.23 5.55,22.37Q6.34,22.51 6.51,22.42Q6.69,22.32 6.80,22.11Q6.91,21.91 6.87,21.47Q6.84,21.04 6.42,20.65Q6.01,20.26 5.88,20.00Q5.76,19.74 5.85,19.15Q5.95,18.57 5.86,18.27Q5.76,17.98 5.79,17.86Q5.82,17.73 6.04,17.36Q6.25,16.98 6.54,16.81Q6.82,16.65 7.01,16.15Q7.19,15.65 7.31,15.51Q7.43,15.37 7.93,15.13Q8.43,14.89 8.89,14.91Q9.35,14.93 9.60,14.87Q9.85,14.80 10.18,14.52Q10.51,14.23 10.66,13.85Q10.80,13.48 10.66,12.70Q10.51,11.93 9.68,11.62Q8.84,11.31 8.63,11.06Q8.41,10.80 8.28,10.39Q8.16,9.97 8.15,9.64Q8.14,9.30 8.36,8.89Q8.58,8.47 9.01,8.29Q9.43,8.11 10.43,8.30Q11.43,8.49 12.06,8.50Q12.68,8.51 13.06,8.22Q13.43,7.92 13.77,7.90Q14.10,7.87 15.65,8.67Q17.19,9.46 17.48,9.51Q17.77,9.55 18.15,9.47Q18.52,9.39 18.60,9.30Q18.68,9.22 18.47,8.55Q18.27,7.88 18.31,7.70Q18.36,7.51 18.66,8.03Q18.95,8.55 19.03,8.84Q19.10,9.14 19.06,9.30Q19.03,9.47 19.11,9.55Q19.19,9.63 19.40,9.47Q19.61,9.31 19.74,9.45Q19.86,9.60 20.11,9.49Q20.36,9.38 20.61,9.56Q20.86,9.74 21.07,9.64Q21.28,9.54 21.61,9.51Q21.95,9.48 22.20,9.32Q22.45,9.16 22.66,9.31Q22.87,9.45 23.20,9.44Q23.53,9.42 23.69,9.65Q23.85,9.89 23.98,9.92Q24.12,9.95 24.95,9.62Q25.79,9.28 26.37,9.28Q26.96,9.27 27.09,9.16Q27.23,9.05 27.04,8.76Q26.85,8.47 26.95,8.28Q27.04,8.08 27.21,8.00Q27.37,7.92 27.66,7.99Q27.95,8.05 27.92,7.88Q27.89,7.72 28.05,7.54Q28.21,7.36 28.54,7.37Q28.87,7.38 29.30,7.13Q29.72,6.88 29.79,6.63Q29.86,6.38 29.79,6.21Q29.71,6.03 29.58,5.97Q29.46,5.91 28.79,5.93Q28.12,5.95 26.79,6.56Q25.45,7.17 24.70,7.20Q23.95,7.23 23.16,7.07Q22.36,6.91 21.74,6.42Q21.11,5.93 20.70,5.94Q20.28,5.94 19.65,6.13Q19.03,6.31 18.97,6.26Q18.92,6.21 19.27,6.01Q19.62,5.80 20.20,5.70Q20.78,5.61 21.22,5.79Q21.67,5.96 22.31,6.40Q22.95,6.84 23.99,6.89Q25.04,6.93 26.54,6.27Q28.04,5.62 28.62,5.61Q29.21,5.61 29.96,5.71Q30.71,5.82 31.01,5.60Q31.31,5.38 32.34,4.16Q33.38,2.93 33.80,3.12Q34.22,3.32 34.59,3.34Q34.97,3.37 35.22,3.08Q35.47,2.79 35.64,2.45Q35.80,2.10 36.09,1.89Q36.39,1.68 37.72,2.04Q39.06,2.40 39.34,2.39Q39.62,2.38 39.73,2.29Q39.84,2.21 40.03,1.73Q40.23,1.25 40.35,1.21Q40.48,1.17 40.81,1.25Q41.14,1.32 41.60,0.75Q42.06,0.18 42.44,0.09Q42.81,0.00 43.51,0.31Q44.21,0.62 44.51,1.11Q44.82,1.60 45.44,1.65Q46.07,1.70 46.50,1.91Q46.93,2.12 47.14,2.38Q47.35,2.63 47.62,3.21Q47.89,3.79 48.52,4.13Q49.16,4.47 49.91,4.52Q50.66,4.58 51.08,4.50Q51.49,4.42 51.91,3.63Q52.33,2.83 52.49,2.75Q52.66,2.67 52.91,2.81Q53.16,2.96 53.37,3.20Q53.58,3.44 54.32,3.58Q55.06,3.71 55.32,4.25Q55.58,4.79 55.96,4.62Q56.33,4.45 56.71,4.55Q57.08,4.66 57.50,4.59Q57.92,4.51 58.96,4.84Q60.01,5.17 60.26,5.82Q60.51,6.47 60.97,7.04Q61.42,7.61 61.67,7.75Q61.92,7.89 62.18,7.94Q62.43,7.98 63.22,7.82Q64.01,7.66 64.72,7.28Q65.43,6.91 65.72,6.84Q66.01,6.77 66.35,6.78Q66.68,6.79 67.52,7.08Q68.35,7.38 68.73,7.63Q69.11,7.88 69.94,9.21Q70.77,10.54 71.52,10.72Q72.27,10.89 72.52,11.06Q72.77,11.24 73.45,12.02Q74.13,12.81 74.29,13.25Q74.44,13.69 74.57,13.70Q74.69,13.72 75.07,13.50Q75.45,13.27 75.86,13.19Q76.28,13.11 76.91,12.76Q77.53,12.41 77.95,12.46Q78.37,12.50 78.47,12.78Q78.57,13.06 78.46,13.89Q78.35,14.73 78.48,14.91Q78.62,15.09 78.87,15.04Q79.12,14.99 79.79,14.46Q80.45,13.93 81.08,13.82Q81.70,13.71 82.08,13.47Q82.46,13.23 82.83,13.22Q83.21,13.20 83.58,13.34Q83.96,13.47 84.23,13.72Q84.50,13.98 84.58,14.27Q84.66,14.56 84.52,14.86Q84.38,15.15 84.00,15.48Q83.62,15.81 83.62,16.07Q83.62,16.34 84.79,17.12Q85.96,17.90 86.30,18.23Q86.63,18.57 86.80,18.62Q86.96,18.66 87.34,18.53Q87.71,18.41 88.07,18.74Q88.42,19.07 88.39,19.74Q88.36,20.40 88.89,21.11Q89.42,21.82 89.50,22.28Q89.59,22.74 89.87,23.24Q90.15,23.74 90.16,24.03Q90.16,24.33 90.00,24.87Q89.85,25.41 89.91,25.74Q89.97,26.08 90.09,26.26Q90.22,26.44 90.76,26.71Q91.30,26.98 91.43,27.15Q91.56,27.33 91.54,27.50Q91.52,27.66 91.28,28.00Q91.05,28.33 91.11,28.54Q91.17,28.75 91.44,28.94Q91.72,29.14 92.39,29.28Q93.06,29.42 93.31,29.57Q93.56,29.72 93.97,30.28Q94.39,30.84 94.46,31.80Q94.53,32.75 94.61,32.96Q94.70,33.17 95.42,33.76Q96.14,34.34 96.70,34.51Q97.25,34.67 97.29,34.92Q97.33,35.18 97.01,35.68Q96.69,36.18 96.71,36.32Q96.73,36.46 96.94,36.48Q97.15,36.51 97.65,36.26Q98.15,36.01 98.40,35.99Q98.65,35.98 99.23,36.26Q99.82,36.54 99.91,36.69Q100.00,36.84 99.90,37.05Q99.81,37.26 99.23,37.72Q98.65,38.18 97.56,38.69Q96.48,39.19 96.06,39.94Q95.64,40.68 94.85,41.00Q94.06,41.32 93.71,41.88Q93.37,42.44 93.24,42.98Q93.11,43.52 93.25,43.94Q93.38,44.36 93.72,44.76Q94.06,45.16 94.32,45.63Q94.58,46.11 94.55,46.36Q94.52,46.61 94.16,47.07Q93.81,47.53 93.86,47.82Q93.92,48.11 94.32,48.16Q94.72,48.20 95.27,47.94Q95.81,47.67 96.60,47.82Q97.40,47.98 97.59,48.13Q97.78,48.28 97.79,48.57Q97.80,48.86 97.50,49.49Q97.20,50.11 96.73,50.62Q96.26,51.12 96.65,51.70Q97.04,52.28 97.12,53.08Q97.19,53.87 97.33,53.90Q97.48,53.93 97.85,53.65Q98.23,53.36 98.44,53.29Q98.65,53.22 98.74,53.34Q98.84,53.45 98.77,53.83Q98.70,54.20 98.51,54.57Q98.31,54.94 98.06,55.14Q97.81,55.34 97.44,55.37Q97.06,55.39 96.77,55.26Q96.48,55.13 96.34,55.00Q96.21,54.87 96.16,54.70Q96.11,54.54 96.22,53.58Q96.33,52.62 96.24,52.45Q96.14,52.28 95.93,52.23Q95.73,52.19 95.48,52.37Q95.23,52.56 94.93,53.02Q94.64,53.48 94.27,53.88Q93.89,54.29 93.31,54.55Q92.72,54.81 92.52,55.09Q92.31,55.37 92.17,55.96Q92.03,56.54 92.05,56.79Q92.08,57.04 92.58,57.33Q93.08,57.63 93.32,57.98Q93.56,58.32 94.03,58.77Q94.50,59.21 94.75,59.63Q94.99,60.05 95.00,60.25Q95.00,60.46 94.74,60.66Q94.47,60.86 93.76,61.05Q93.06,61.24 92.55,61.23Q92.05,61.23 91.95,61.30Q91.84,61.38 91.78,62.22Q91.72,63.05 91.57,63.43Q91.42,63.80 91.06,64.34Q90.70,64.89 90.55,65.39Q90.39,65.89 90.44,66.93Q90.49,67.97 90.26,68.73Q90.02,69.48 90.19,69.98Q90.35,70.48 90.76,71.10Q91.18,71.73 90.50,72.90Q89.82,74.07 89.32,74.44Q88.82,74.82 88.97,76.32Q89.12,77.82 88.88,78.13Q88.63,78.44 88.15,78.76Q87.66,79.08 87.60,79.66Q87.55,80.24 87.19,80.70Q86.83,81.16 86.48,82.03Q86.13,82.91 85.29,83.27Q84.46,83.63 83.71,83.56Q82.96,83.49 82.85,83.54Q82.75,83.58 82.73,83.75Q82.71,83.92 82.88,84.33Q83.06,84.75 83.00,85.00Q82.95,85.25 81.70,86.70Q80.45,88.15 79.95,88.62Q79.45,89.09 79.36,89.42Q79.27,89.76 79.42,90.55Q79.57,91.34 79.43,91.93Q79.30,92.51 79.35,92.97Q79.40,93.43 79.18,94.24Q78.95,95.04 78.74,95.12Q78.53,95.21 77.95,95.24Q77.36,95.27 76.95,95.11Q76.53,94.95 76.15,94.56Q75.78,94.17 75.07,94.23Q74.36,94.30 73.65,94.03Q72.94,93.76 72.63,93.51Q72.32,93.26 72.10,92.97Q71.89,92.68 71.86,92.47Q71.82,92.26 71.92,91.89Q72.01,91.51 71.85,91.39Q71.69,91.26 71.48,91.33Q71.27,91.41 70.94,91.70Q70.60,92.00 69.73,92.43Q68.85,92.86 68.43,92.78Q68.02,92.69 67.72,92.23Q67.43,91.76 67.22,91.67Q67.02,91.58 66.18,91.88Q65.35,92.18 64.76,92.22Q64.18,92.26 63.84,92.59Q63.51,92.91 62.93,93.21Q62.34,93.51 61.67,93.39Q61.01,93.27 60.30,93.03Q59.59,92.79 59.38,92.57Q59.17,92.35 58.85,91.80Q58.54,91.26 57.73,90.85Q56.92,90.44 56.37,89.69Q55.83,88.94 55.71,88.87Q55.58,88.81 53.98,89.87Q52.38,90.93 49.95,93.43Q47.53,95.93 46.63,96.60Q45.73,97.28 45.15,97.64Q44.57,98.01 43.98,98.24Q43.40,98.48 42.35,98.76Q41.31,99.05 40.64,99.12Q39.97,99.19 39.47,99.16Z"/></symbol></svg>
 
 <header class="nav" id="nav">
   <div class="wrap">
@@ -289,7 +306,12 @@ a{color:inherit;text-decoration:none}
   <section class="hero" aria-label="פתיח">
     <div class="wrap">
       <div class="hero-art" aria-hidden="true">
-        <div class="fig"><span class="sun"></span><svg><use href="#mk"/></svg></div>
+        <div class="fig"><span class="sun"></span><div class="hw"><div class="head" id="head" data-rot>
+          <div class="fr on" style="--i:url(media/02-light.jpg)"></div>
+          <div class="fr" style="--i:url(media/15-yellow.jpg)"></div>
+          <div class="fr" style="--i:url(media/08-back.jpg)"></div>
+          <div class="fr" style="--i:url(media/11-field.jpg)"></div>
+        </div></div></div>
       </div>
       <div class="hero-text">
         <div class="label fade">מבית היוצר של שמואל ברו</div>
@@ -460,6 +482,14 @@ a{color:inherit;text-decoration:none}
   burger.addEventListener('click', () => setMenu(!menu.classList.contains('open')));
   $$('a', menu).forEach(a => a.addEventListener('click', () => setMenu(false)));
   addEventListener('keydown', e => { if (e.key === 'Escape') setMenu(false); });
+
+
+  // frames inside the silhouette crossfade slowly
+  $$('[data-rot]').forEach(box => {
+    const fr = [...box.children]; let c = 0;
+    if (reduce || fr.length < 2) return;
+    setInterval(() => { if (document.hidden) return; fr[c].classList.remove('on'); c = (c + 1) % fr.length; fr[c].classList.add('on'); }, 4600);
+  });
 
   // reveals
   const targets = $$('.rv,.rise,.wipe,.draw');

diff --git a/sketches/final.html b/sketches/final.html
@@ -308,6 +308,23 @@ html:not(.js) .more{display:none}
 .about-side{display:grid;gap:clamp(20px,3vw,32px)}
 .about-side .about-ph{aspect-ratio:16/10}
 @media (prefers-reduced-motion:reduce){[data-rot] img.on{animation:none}}
+
+/* ---------- photos inside the silhouette: sharp centre, soft and darker towards the edge ---------- */
+.fig .hw{position:absolute;inset:0;overflow:hidden}
+.fig .head{position:absolute;inset:0;background:var(--ink);-webkit-clip-path:url(#head-clip);clip-path:url(#head-clip)}
+.head .fr{position:absolute;inset:0;opacity:0;transition:opacity 1.4s ease}
+.head .fr.on{opacity:1}
+.head .fr::before,.head .fr::after{content:"";position:absolute;inset:-7%;background:var(--i) center/cover no-repeat}
+.head .fr::before{filter:blur(10px) saturate(.85) brightness(.82)}
+.head .fr::after{-webkit-mask:radial-gradient(circle at 50% 47%,#000 20%,rgba(0,0,0,.55) 38%,transparent 60%);mask:radial-gradient(circle at 50% 47%,#000 20%,rgba(0,0,0,.55) 38%,transparent 60%)}
+.head .fr.on::before,.head .fr.on::after{animation:kbz 7s linear forwards}
+@keyframes kbz{from{transform:scale(1.02)}to{transform:scale(1.1)}}
+.fig .head::after{content:"";position:absolute;inset:0;background:radial-gradient(circle at 50% 47%,rgba(25,25,24,0) 34%,rgba(25,25,24,.5) 100%);pointer-events:none}
+.js .fig .hw{clip-path:inset(100% 0 0 0)}
+.js.ready .fig .hw{clip-path:inset(0);transition:clip-path 1s .15s var(--ease)}
+@media (prefers-reduced-motion:reduce){.js .fig .hw{clip-path:none}.head .fr.on::before,.head .fr.on::after{animation:none}}
+/* the headline never outgrows its column on very wide screens */
+@media (min-width:900px){.hero h1{font-size:clamp(80px,min(9.7vw,17.5vh),150px)}}
 </style>
 </head>
 <body id="top">
@@ -353,10 +370,10 @@ html:not(.js) .more{display:none}
       </div>
       <div class="hero-art" aria-hidden="true">
         <div class="fig"><span class="sun"></span><div class="hw"><div class="head" id="head" data-rot>
-          <img class="on" src="media/02-light.jpg" alt="">
-          <img src="media/15-yellow.jpg" alt="">
-          <img src="media/08-back.jpg" alt="">
-          <img src="media/11-field.jpg" alt="">
+          <div class="fr on" style="--i:url(media/02-light.jpg)"></div>
+          <div class="fr" style="--i:url(media/15-yellow.jpg)"></div>
+          <div class="fr" style="--i:url(media/08-back.jpg)"></div>
+          <div class="fr" style="--i:url(media/11-field.jpg)"></div>
         </div></div></div>
       </div>
     </div>
@@ -528,7 +545,7 @@ html:not(.js) .more{display:none}
 
   // any stack of frames marked data-rot crossfades slowly
   $$('[data-rot]').forEach(box => {
-    const fr = $$('img', box); let c = 0;
+    const fr = [...box.children]; let c = 0;
     if (reduce || fr.length < 2) return;
     setInterval(() => { if (document.hidden) return; fr[c].classList.remove('on'); c = (c + 1) % fr.length; fr[c].classList.add('on'); }, 4200);
   });

diff --git a/sketches/open-2.html b/sketches/open-2.html
@@ -309,6 +309,23 @@ html:not(.js) .more{display:none}
 .about-side .about-ph{aspect-ratio:16/10}
 @media (prefers-reduced-motion:reduce){[data-rot] img.on{animation:none}}
 
+/* ---------- photos inside the silhouette: sharp centre, soft and darker towards the edge ---------- */
+.fig .hw{position:absolute;inset:0;overflow:hidden}
+.fig .head{position:absolute;inset:0;background:var(--ink);-webkit-clip-path:url(#head-clip);clip-path:url(#head-clip)}
+.head .fr{position:absolute;inset:0;opacity:0;transition:opacity 1.4s ease}
+.head .fr.on{opacity:1}
+.head .fr::before,.head .fr::after{content:"";position:absolute;inset:-7%;background:var(--i) center/cover no-repeat}
+.head .fr::before{filter:blur(10px) saturate(.85) brightness(.82)}
+.head .fr::after{-webkit-mask:radial-gradient(circle at 50% 47%,#000 20%,rgba(0,0,0,.55) 38%,transparent 60%);mask:radial-gradient(circle at 50% 47%,#000 20%,rgba(0,0,0,.55) 38%,transparent 60%)}
+.head .fr.on::before,.head .fr.on::after{animation:kbz 7s linear forwards}
+@keyframes kbz{from{transform:scale(1.02)}to{transform:scale(1.1)}}
+.fig .head::after{content:"";position:absolute;inset:0;background:radial-gradient(circle at 50% 47%,rgba(25,25,24,0) 34%,rgba(25,25,24,.5) 100%);pointer-events:none}
+.js .fig .hw{clip-path:inset(100% 0 0 0)}
+.js.ready .fig .hw{clip-path:inset(0);transition:clip-path 1s .15s var(--ease)}
+@media (prefers-reduced-motion:reduce){.js .fig .hw{clip-path:none}.head .fr.on::before,.head .fr.on::after{animation:none}}
+/* the headline never outgrows its column on very wide screens */
+@media (min-width:900px){.hero h1{font-size:clamp(80px,min(9.7vw,17.5vh),150px)}}
+
 /* ---------- opening variant 2 ---------- */
 .nav .brand svg{width:26px;opacity:1;margin-inline-end:10px}
 .hero.v2 .wrap{justify-content:center;gap:clamp(14px,2.6svh,30px);padding-block:clamp(10px,2svh,24px) clamp(56px,9svh,72px)}
@@ -319,7 +336,7 @@ html:not(.js) .more{display:none}
 @media (max-height:700px) and (max-width:899px){.hero .kt{font-size:clamp(60px,19.6vw,100px)}}
 @media (min-width:900px){
   .hero.v2 .wrap{display:flex;flex-direction:column;padding-bottom:clamp(40px,7vh,72px)}
-  .hero .kt{font-size:clamp(150px,min(20.5vw,33vh),360px);line-height:.86}
+  .hero .kt{font-size:clamp(150px,min(20.5vw,33vh),286px);line-height:.86}
   .v2-foot{grid-template-columns:minmax(0,1fr) auto;align-items:end;column-gap:48px}
   .v2 .hero-sub{max-width:44ch}
 }
@@ -535,7 +552,7 @@ html:not(.js) .more{display:none}
 
   // any stack of frames marked data-rot crossfades slowly
   $$('[data-rot]').forEach(box => {
-    const fr = $$('img', box); let c = 0;
+    const fr = [...box.children]; let c = 0;
     if (reduce || fr.length < 2) return;
     setInterval(() => { if (document.hidden) return; fr[c].classList.remove('on'); c = (c + 1) % fr.length; fr[c].classList.add('on'); }, 4200);
   });

diff --git a/sketches/open-1.html b/sketches/open-1.html
@@ -309,6 +309,23 @@ html:not(.js) .more{display:none}
 .about-side .about-ph{aspect-ratio:16/10}
 @media (prefers-reduced-motion:reduce){[data-rot] img.on{animation:none}}
 
+/* ---------- photos inside the silhouette: sharp centre, soft and darker towards the edge ---------- */
+.fig .hw{position:absolute;inset:0;overflow:hidden}
+.fig .head{position:absolute;inset:0;background:var(--ink);-webkit-clip-path:url(#head-clip);clip-path:url(#head-clip)}
+.head .fr{position:absolute;inset:0;opacity:0;transition:opacity 1.4s ease}
+.head .fr.on{opacity:1}
+.head .fr::before,.head .fr::after{content:"";position:absolute;inset:-7%;background:var(--i) center/cover no-repeat}
+.head .fr::before{filter:blur(10px) saturate(.85) brightness(.82)}
+.head .fr::after{-webkit-mask:radial-gradient(circle at 50% 47%,#000 20%,rgba(0,0,0,.55) 38%,transparent 60%);mask:radial-gradient(circle at 50% 47%,#000 20%,rgba(0,0,0,.55) 38%,transparent 60%)}
+.head .fr.on::before,.head .fr.on::after{animation:kbz 7s linear forwards}
+@keyframes kbz{from{transform:scale(1.02)}to{transform:scale(1.1)}}
+.fig .head::after{content:"";position:absolute;inset:0;background:radial-gradient(circle at 50% 47%,rgba(25,25,24,0) 34%,rgba(25,25,24,.5) 100%);pointer-events:none}
+.js .fig .hw{clip-path:inset(100% 0 0 0)}
+.js.ready .fig .hw{clip-path:inset(0);transition:clip-path 1s .15s var(--ease)}
+@media (prefers-reduced-motion:reduce){.js .fig .hw{clip-path:none}.head .fr.on::before,.head .fr.on::after{animation:none}}
+/* the headline never outgrows its column on very wide screens */
+@media (min-width:900px){.hero h1{font-size:clamp(80px,min(9.7vw,17.5vh),150px)}}
+
 /* ---------- opening variant 1 ---------- */
 .nav .brand svg{width:26px;opacity:1;margin-inline-end:10px}
 .hero.v1{position:relative;display:flex;flex-direction:column;min-height:100vh;min-height:100svh;padding-top:var(--navh)}
@@ -537,7 +554,7 @@ html:not(.js) .more{display:none}
 
   // any stack of frames marked data-rot crossfades slowly
   $$('[data-rot]').forEach(box => {
-    const fr = $$('img', box); let c = 0;
+    const fr = [...box.children]; let c = 0;
     if (reduce || fr.length < 2) return;
     setInterval(() => { if (document.hidden) return; fr[c].classList.remove('on'); c = (c + 1) % fr.length; fr[c].classList.add('on'); }, 4200);
   });

diff --git a/sketches/open-3.html b/sketches/open-3.html
@@ -309,6 +309,23 @@ html:not(.js) .more{display:none}
 .about-side .about-ph{aspect-ratio:16/10}
 @media (prefers-reduced-motion:reduce){[data-rot] img.on{animation:none}}
 
+/* ---------- photos inside the silhouette: sharp centre, soft and darker towards the edge ---------- */
+.fig .hw{position:absolute;inset:0;overflow:hidden}
+.fig .head{position:absolute;inset:0;background:var(--ink);-webkit-clip-path:url(#head-clip);clip-path:url(#head-clip)}
+.head .fr{position:absolute;inset:0;opacity:0;transition:opacity 1.4s ease}
+.head .fr.on{opacity:1}
+.head .fr::before,.head .fr::after{content:"";position:absolute;inset:-7%;background:var(--i) center/cover no-repeat}
+.head .fr::before{filter:blur(10px) saturate(.85) brightness(.82)}
+.head .fr::after{-webkit-mask:radial-gradient(circle at 50% 47%,#000 20%,rgba(0,0,0,.55) 38%,transparent 60%);mask:radial-gradient(circle at 50% 47%,#000 20%,rgba(0,0,0,.55) 38%,transparent 60%)}
+.head .fr.on::before,.head .fr.on::after{animation:kbz 7s linear forwards}
+@keyframes kbz{from{transform:scale(1.02)}to{transform:scale(1.1)}}
+.fig .head::after{content:"";position:absolute;inset:0;background:radial-gradient(circle at 50% 47%,rgba(25,25,24,0) 34%,rgba(25,25,24,.5) 100%);pointer-events:none}
+.js .fig .hw{clip-path:inset(100% 0 0 0)}
+.js.ready .fig .hw{clip-path:inset(0);transition:clip-path 1s .15s var(--ease)}
+@media (prefers-reduced-motion:reduce){.js .fig .hw{clip-path:none}.head .fr.on::before,.head .fr.on::after{animation:none}}
+/* the headline never outgrows its column on very wide screens */
+@media (min-width:900px){.hero h1{font-size:clamp(80px,min(9.7vw,17.5vh),150px)}}
+
 /* ---------- opening variant 3 ---------- */
 .nav .brand svg{width:26px;opacity:1;margin-inline-end:10px}
 .v3 .col{position:relative;aspect-ratio:1.18;width:min(100%,320px);width:min(100cqw,118cqh,460px)}
@@ -542,7 +559,7 @@ html:not(.js) .more{display:none}
 
   // any stack of frames marked data-rot crossfades slowly
   $$('[data-rot]').forEach(box => {
-    const fr = $$('img', box); let c = 0;
+    const fr = [...box.children]; let c = 0;
     if (reduce || fr.length < 2) return;
     setInterval(() => { if (document.hidden) return; fr[c].classList.remove('on'); c = (c + 1) % fr.length; fr[c].classList.add('on'); }, 4200);
   });

diff --git a/sketches/open-4.html b/sketches/open-4.html
@@ -309,6 +309,23 @@ html:not(.js) .more{display:none}
 .about-side .about-ph{aspect-ratio:16/10}
 @media (prefers-reduced-motion:reduce){[data-rot] img.on{animation:none}}
 
+/* ---------- photos inside the silhouette: sharp centre, soft and darker towards the edge ---------- */
+.fig .hw{position:absolute;inset:0;overflow:hidden}
+.fig .head{position:absolute;inset:0;background:var(--ink);-webkit-clip-path:url(#head-clip);clip-path:url(#head-clip)}
+.head .fr{position:absolute;inset:0;opacity:0;transition:opacity 1.4s ease}
+.head .fr.on{opacity:1}
+.head .fr::before,.head .fr::after{content:"";position:absolute;inset:-7%;background:var(--i) center/cover no-repeat}
+.head .fr::before{filter:blur(10px) saturate(.85) brightness(.82)}
+.head .fr::after{-webkit-mask:radial-gradient(circle at 50% 47%,#000 20%,rgba(0,0,0,.55) 38%,transparent 60%);mask:radial-gradient(circle at 50% 47%,#000 20%,rgba(0,0,0,.55) 38%,transparent 60%)}
+.head .fr.on::before,.head .fr.on::after{animation:kbz 7s linear forwards}
+@keyframes kbz{from{transform:scale(1.02)}to{transform:scale(1.1)}}
+.fig .head::after{content:"";position:absolute;inset:0;background:radial-gradient(circle at 50% 47%,rgba(25,25,24,0) 34%,rgba(25,25,24,.5) 100%);pointer-events:none}
+.js .fig .hw{clip-path:inset(100% 0 0 0)}
+.js.ready .fig .hw{clip-path:inset(0);transition:clip-path 1s .15s var(--ease)}
+@media (prefers-reduced-motion:reduce){.js .fig .hw{clip-path:none}.head .fr.on::before,.head .fr.on::after{animation:none}}
+/* the headline never outgrows its column on very wide screens */
+@media (min-width:900px){.hero h1{font-size:clamp(80px,min(9.7vw,17.5vh),150px)}}
+
 /* ---------- opening variant 4 ---------- */
 .hero.v4{position:relative;overflow:hidden}
 .v4 .glow{position:absolute;inset:0;width:100%;height:100%;filter:blur(38px) saturate(1.1);opacity:.8}
@@ -535,7 +552,7 @@ html:not(.js) .more{display:none}
 
   // any stack of frames marked data-rot crossfades slowly
   $$('[data-rot]').forEach(box => {
-    const fr = $$('img', box); let c = 0;
+    const fr = [...box.children]; let c = 0;
     if (reduce || fr.length < 2) return;
     setInterval(() => { if (document.hidden) return; fr[c].classList.remove('on'); c = (c + 1) % fr.length; fr[c].classList.add('on'); }, 4200);
   });

diff --git a/sketches/7.html b/sketches/7.html
@@ -265,6 +265,8 @@ h1 .ln>span{display:inline-block}
 
 /* real photos: no per-photo titles */
 .wk .cap{display:none!important}
+/* wide-screen headline fix */
+.hero h1 .ln{padding-inline:.08em;margin-inline:-.08em}
 </style>
 </head>
 <body id="top">
